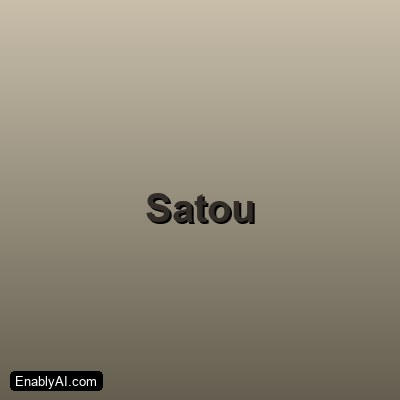
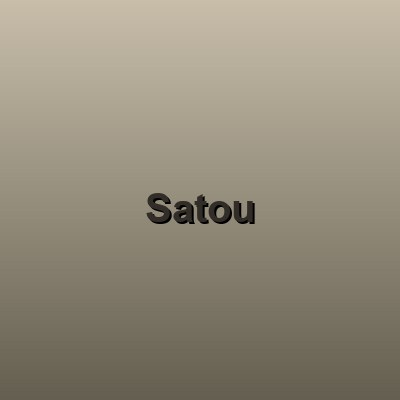
Remove model badge on image preview; template JPGs without EnablyAI watermark
Made-with: Cursor

Changed region(s): [[0.0, 0.93, 0.27, 0.99]]

diff --git a/components/dashboard/text-to-image.tsx b/components/dashboard/text-to-image.tsx
@@ -406,9 +406,6 @@ export function TextToImage() {
                         <Download className="h-5 w-5 text-white" />
                       </a>
                     </div>
-                    <div className="absolute bottom-2 left-2 rounded-full bg-black/60 backdrop-blur-sm px-2 py-0.5 text-[10px] text-slate-300">
-                      {img.model}
-                    </div>
                   </div>
                 ))}
               </div>

diff --git a/scripts/generate_template_thumbnails.py b/scripts/generate_template_thumbnails.py
@@ -1,8 +1,7 @@
 #!/usr/bin/env python3
 """Generate placeholder template thumbnails for portrait style templates.
 
-Each thumbnail is a 400x400 image with a styled gradient, the template name,
-and an 'EnablyAI.com' watermark in the bottom-left corner.
+Each thumbnail is a 400x400 image with a styled gradient and the template name.
 
 Usage:
     python scripts/generate_template_thumbnails.py
@@ -22,13 +21,6 @@ FONT_CANDIDATES = [
     "C:\\Windows\\Fonts\\arialbd.ttf",
 ]
 
-FONT_REGULAR_CANDIDATES = [
-    "/System/Library/Fonts/Supplemental/Arial.ttf",
-    "/usr/share/fonts/truetype/dejavu/DejaVuSans.ttf",
-    "C:\\Windows\\Fonts\\arial.ttf",
-]
-
-
 def load_font(size: int, candidates=None):
     for f in (candidates or FONT_CANDIDATES):
         try:
@@ -43,6 +35,26 @@ TEMPLATES = {
         "label": "Ink Sketch",
         "gradient": [(245, 240, 230), (30, 30, 30)],
         "text_color": (20, 20, 20),
+    },
+    "bold_text": {
+        "label": "Bold Text",
+        "gradient": [(255, 215, 0), (180, 0, 120)],
+        "text_color": (255, 255, 255),
+    },
+    "street_art": {
+        "label": "Street Art",
+        "gradient": [(80, 200, 255), (255, 80, 160)],
+        "text_color": (20, 20, 30),
+    },
+    "sticky_notes": {
+        "label": "Sticky Notes",
+        "gradient": [(255, 245, 120), (255, 200, 80)],
+        "text_color": (60, 50, 20),
+    },
+    "polaroid": {
+        "label": "Polaroid",
+        "gradient": [(250, 248, 240), (200, 190, 175)],
+        "text_color": (40, 35, 30),
     },
     "monochrome": {
         "label": "Monochrome",
@@ -114,22 +126,6 @@ def make_gradient(size: int, c1: tuple, c2: tuple) -> Image.Image:
     return img
 
 
-def add_watermark(draw: ImageDraw.ImageDraw, size: int):
-    wm_text = "EnablyAI.com"
-    wm_font = load_font(max(11, size // 30), FONT_REGULAR_CANDIDATES)
-    bbox = draw.textbbox((0, 0), wm_text, font=wm_font)
-    tw, th = bbox[2] - bbox[0], bbox[3] - bbox[1]
-    margin = max(8, size // 40)
-    pad_x, pad_y = 5, 3
-    x = margin + pad_x
-    y = size - margin - th - pad_y
-    draw.rounded_rectangle(
-        [margin, y - pad_y, x + tw + pad_x, y + th + pad_y],
-        radius=4, fill=(0, 0, 0, 140),
-    )
-    draw.text((x, y), wm_text, fill=(255, 255, 255, 200), font=wm_font)
-
-
 def generate_thumbnail(key: str, info: dict):
     c1, c2 = info["gradient"]
     img = make_gradient(SIZE, c1, c2).convert("RGBA")
@@ -145,8 +141,6 @@ def generate_thumbnail(key: str, info: dict):
     draw.text((x + shadow_offset, y + shadow_offset), info["label"],
               fill=(0, 0, 0, 100), font=label_font)
     draw.text((x, y), info["label"], fill=(r, g, b, 255), font=label_font)
-
-    add_watermark(draw, SIZE)
 
     out_path = OUT_DIR / f"{key}.jpg"
     img.convert("RGB").save(out_path, "JPEG", quality=88)

diff --git a/scripts/create_template_thumbs_from_refs.py b/scripts/create_template_thumbs_from_refs.py
@@ -1,32 +1,14 @@
 #!/usr/bin/env python3
 """Create square template thumbnails from reference images.
 
-Crops to center-square, resizes to 400x400, applies EnablyAI.com watermark,
-and saves as JPEG in public/templates/.
+Crops to center-square, resizes to 400x400, and saves as JPEG in public/templates/.
 """
 
 from pathlib import Path
-from PIL import Image, ImageDraw, ImageFont
+from PIL import Image
 
 SIZE = 400
 OUT_DIR = Path(__file__).resolve().parent.parent / "public" / "templates"
-
-FONT_CANDIDATES = [
-    "/System/Library/Fonts/Supplemental/Arial Bold.ttf",
-    "/System/Library/Fonts/Supplemental/Arial.ttf",
-    "/usr/share/fonts/truetype/dejavu/DejaVuSans-Bold.ttf",
-    "/usr/share/fonts/truetype/dejavu/DejaVuSans.ttf",
-    "C:\\Windows\\Fonts\\arialbd.ttf",
-]
-
-
-def load_font(size: int):
-    for f in FONT_CANDIDATES:
-        try:
-            return ImageFont.truetype(f, size=size)
-        except OSError:
-            continue
-    return ImageFont.load_default()
 
 
 def center_crop_square(img: Image.Image) -> Image.Image:
@@ -37,37 +19,10 @@ def center_crop_square(img: Image.Image) -> Image.Image:
     return img.crop((left, top, left + side, top + side))
 
 
-def add_watermark(img: Image.Image) -> Image.Image:
-    canvas = img.convert("RGBA")
-    overlay = Image.new("RGBA", canvas.size, (0, 0, 0, 0))
-    draw = ImageDraw.Draw(overlay)
-
-    wm_text = "EnablyAI.com"
-    font_size = max(11, canvas.width // 30)
-    font = load_font(font_size)
-
-    bbox = draw.textbbox((0, 0), wm_text, font=font)
-    tw, th = bbox[2] - bbox[0], bbox[3] - bbox[1]
-    margin = max(8, canvas.width // 40)
-    pad_x, pad_y = 5, 3
-    x = margin + pad_x
-    y = canvas.height - margin - th - pad_y
-
-    draw.rounded_rectangle(
-        [margin, y - pad_y, x + tw + pad_x, y + th + pad_y],
-        radius=4, fill=(0, 0, 0, 140),
-    )
-    draw.text((x, y), wm_text, fill=(255, 255, 255, 200), font=font)
-
-    result = Image.alpha_composite(canvas, overlay)
-    return result.convert("RGB")
-
-
 def process(src_path: str, out_name: str):
     img = Image.open(src_path)
     img = center_crop_square(img)
     img = img.resize((SIZE, SIZE), Image.Resampling.LANCZOS)
-    img = add_watermark(img)
     out = OUT_DIR / f"{out_name}.jpg"
     img.save(out, "JPEG", quality=90)
     print(f"  {out_name}.jpg  ({src_path})")
